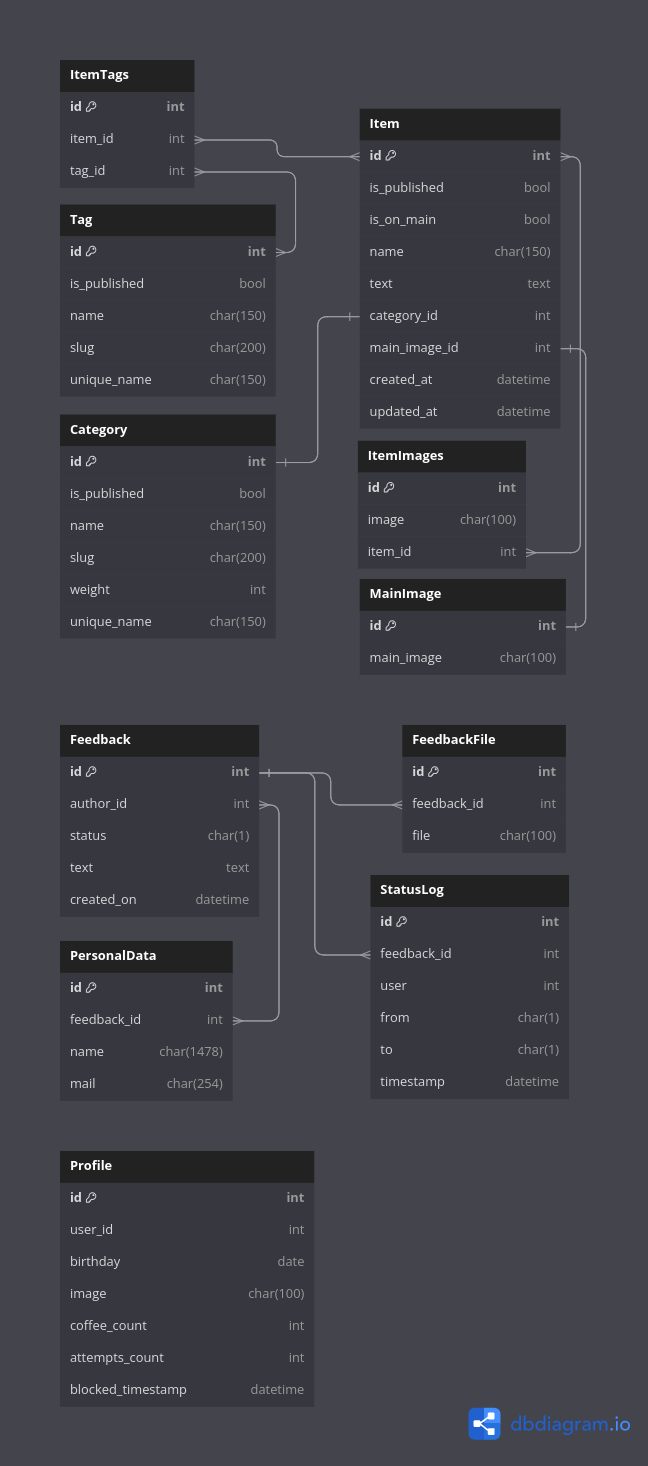
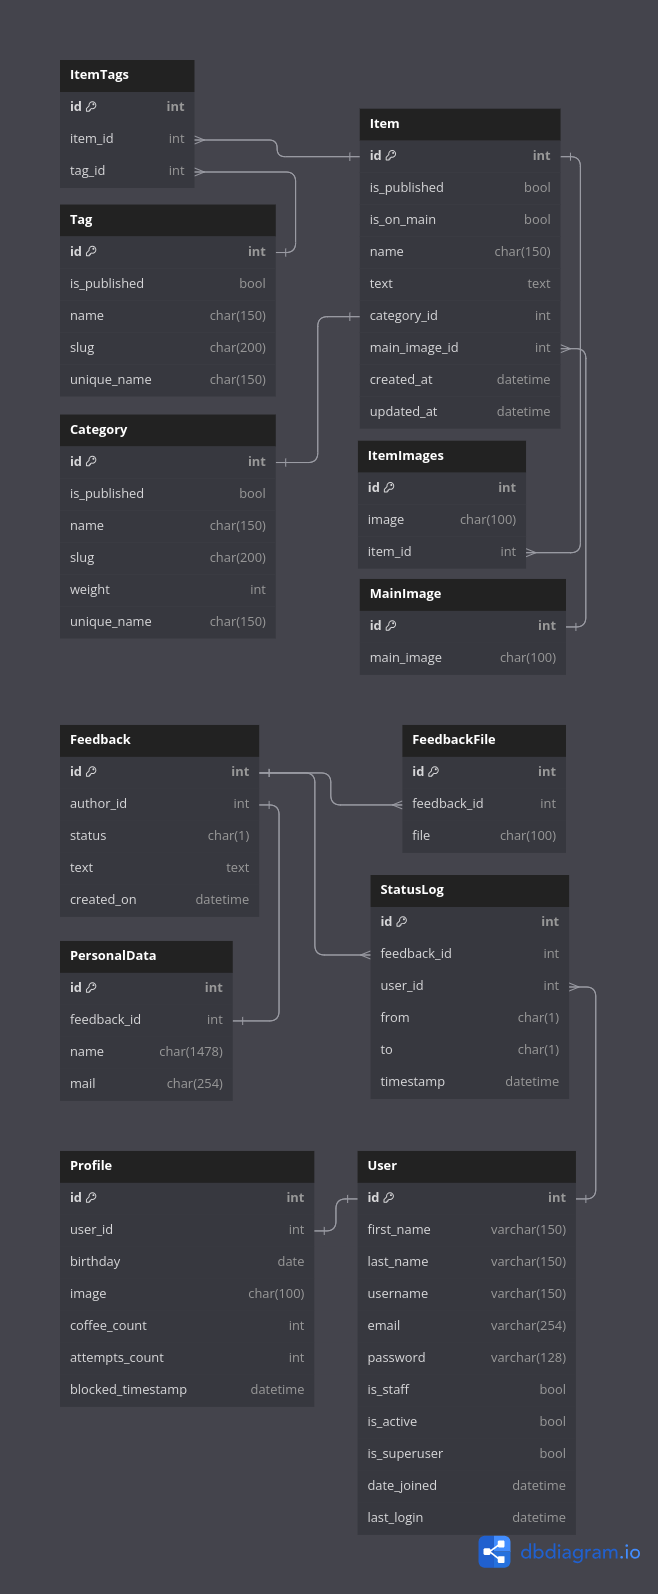
ER improvements and reverted to old readme

diff --git a/README.md b/README.md
@@ -1,6 +1,6 @@
 # SaaShop
 
-[![Pipeline Status](./badges/main/pipeline.svg)](./-/pipelines)
+[![Pipeline Status](https://gitlab.crja72.ru/django_2023/students/201154-itq-dev-course-967/badges/main/pipeline.svg)](https://gitlab.crja72.ru/django_2023/students/201154-itq-dev-course-967/-/pipelines)
 
 ## Cloning project
 
